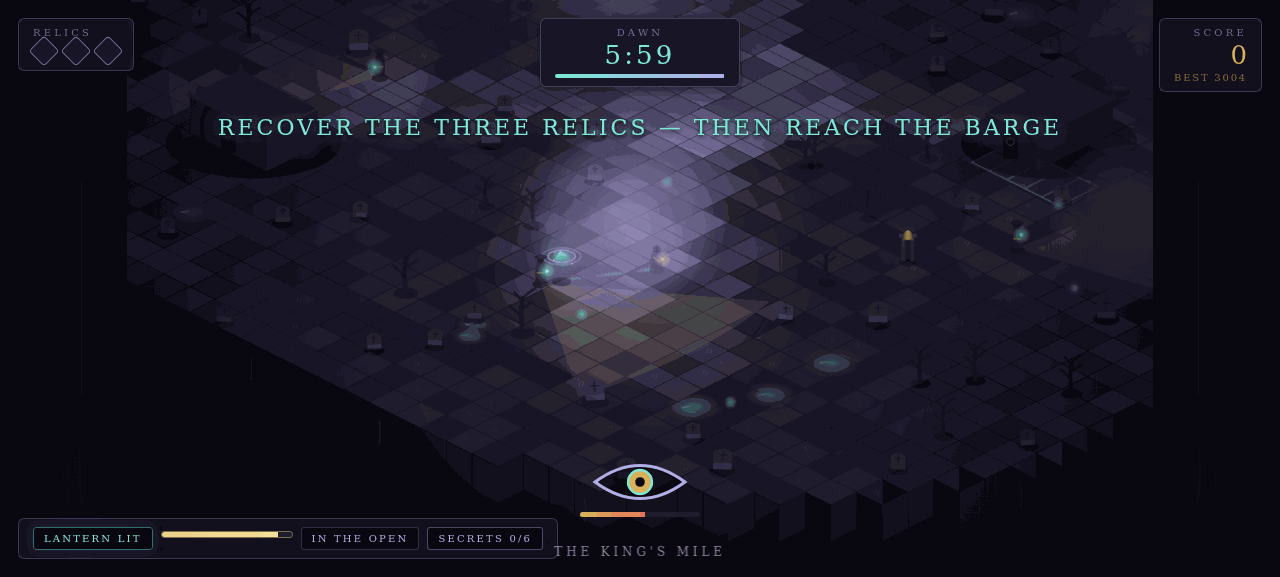
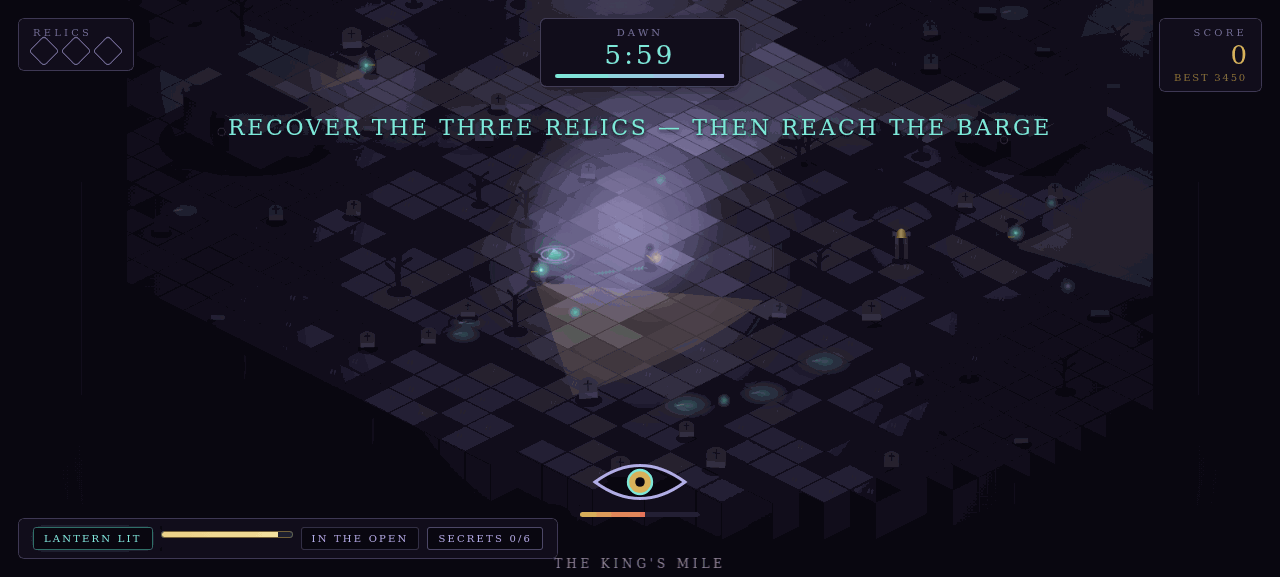
Phase 3 polish: fix toast/title overflow, hide HUD behind screens, accurate README
- HUD no longer renders behind title/pause/victory/defeat screens
- Toast wraps to viewport-safe width (no nowrap overflow), fluid title metrics
- Zone label lifted clear of HUD chips; HUD status wraps within 62vw
- Remove inert spectral bridge (non-functional mechanic) from code and README claims
- README: correct layout description, document CDP verification harnesses
- Re-capture screenshots from the fixed build

diff --git a/game/src/styles.css b/game/src/styles.css
@@ -44,7 +44,7 @@ html, body {
 #hud-relics { top: 18px; left: 18px; }
 #hud-dawn { top: 18px; left: 50%; transform: translateX(-50%); text-align: center; min-width: 170px; }
 #hud-score { top: 18px; right: 18px; text-align: right; }
-#hud-status { bottom: 18px; left: 18px; display: flex; gap: 8px; }
+#hud-status { bottom: 18px; left: 18px; display: flex; gap: 8px; flex-wrap: wrap; max-width: 62vw; }
 #dawn-time { font-size: 26px; color: var(--teal); letter-spacing: 0.12em; font-variant-numeric: tabular-nums; }
 #dawn-time.urgent { color: #e88a7d; animation: pulse 1s infinite; }
 @keyframes pulse { 50% { opacity: 0.55; } }
@@ -74,9 +74,10 @@ html, body {
 
 #toast {
   position: absolute; top: 22%; left: 50%; transform: translate(-50%, -50%);
-  font-size: 22px; letter-spacing: 0.14em; color: var(--teal);
+  font-size: clamp(15px, 2vw, 22px); letter-spacing: 0.12em; color: var(--teal);
   text-shadow: 0 0 18px rgba(125,232,216,0.6), 0 2px 4px #000;
-  animation: toastIn 0.4s ease-out; text-align: center; white-space: nowrap;
+  animation: toastIn 0.4s ease-out; text-align: center;
+  max-width: min(88vw, 880px); width: max-content; padding: 0 12px; box-sizing: border-box;
 }
 @keyframes toastIn { from { opacity: 0; transform: translate(-50%, -30%); } to { opacity: 1; transform: translate(-50%, -50%); } }
 
@@ -94,14 +95,14 @@ html, body {
   z-index: 5; text-align: center;
 }
 .title-inner, .panel-inner { max-width: 720px; padding: 24px 40px; }
-.title-kicker { font-size: 11px; letter-spacing: 0.42em; color: var(--teal-dim); margin-bottom: 14px; }
+.title-kicker { font-size: clamp(9px, 0.9vw, 11px); letter-spacing: clamp(0.2em, 0.5vw, 0.42em); color: var(--teal-dim); margin-bottom: 14px; }
 .title-logo {
-  font-size: 84px; margin: 0; letter-spacing: 0.14em; font-weight: 400; color: #efe9ff;
+  font-size: clamp(46px, 8.2vw, 84px); margin: 0; letter-spacing: 0.14em; font-weight: 400; color: #efe9ff;
   text-shadow: 0 0 40px rgba(184,167,232,0.5), 0 0 90px rgba(125,232,216,0.25), 0 4px 0 #241d36;
 }
-.title-sub { font-size: 17px; letter-spacing: 0.9em; color: var(--brass); margin: 6px 0 22px 0.45em; }
-.title-story { font-size: 14.5px; line-height: 1.65; color: #b9b1d6; max-width: 560px; margin: 0 auto 20px; font-style: italic; }
-.title-controls { display: flex; flex-wrap: wrap; gap: 8px 18px; justify-content: center; margin-bottom: 26px; font-size: 12.5px; color: #8f86b5; }
+.title-sub { font-size: clamp(12px, 1.5vw, 17px); letter-spacing: clamp(0.35em, 1.1vw, 0.9em); color: var(--brass); margin: 6px 0 22px 0.45em; }
+.title-story { font-size: clamp(12.5px, 1.25vw, 14.5px); line-height: 1.65; color: #b9b1d6; max-width: 560px; margin: 0 auto 20px; font-style: italic; }
+.title-controls { display: flex; flex-wrap: wrap; gap: 8px 18px; justify-content: center; margin-bottom: 26px; font-size: clamp(11px, 1.05vw, 12.5px); color: #8f86b5; }
 .title-controls b { color: var(--violet); font-family: 'Courier New', monospace; }
 .title-best { font-size: 12px; letter-spacing: 0.3em; color: var(--brass); margin-top: 18px; min-height: 16px; }
 .title-foot { margin-top: 14px; font-size: 10.5px; letter-spacing: 0.2em; color: #57506f; }
@@ -137,6 +138,6 @@ html, body {
 #lantern-energy-fill.low { background: linear-gradient(90deg,#e86a5a,#d8b25a); }
 .status-chip.spent { color: #e86a5a; border-color: rgba(232,106,90,0.5); }
 .secret-chip { color: #b8a7e8; border-color: rgba(184,167,232,0.4); }
-#zone-label { position: absolute; bottom: 18px; left: 50%; transform: translateX(-50%); font-size: 12px; letter-spacing: 0.32em; color: rgba(232,227,240,0.6); text-shadow: 0 2px 8px rgba(0,0,0,0.8); pointer-events: none; }
+#zone-label { position: absolute; bottom: 6px; left: 50%; transform: translateX(-50%); font-size: 12px; letter-spacing: 0.32em; color: rgba(232,227,240,0.6); text-shadow: 0 2px 8px rgba(0,0,0,0.8); pointer-events: none; }
 .zone-fade { animation: zoneFade 3.2s ease forwards; }
 @keyframes zoneFade { 0% { opacity: 0; transform: translateX(-50%) translateY(6px); } 18% { opacity: 1; transform: translateX(-50%) translateY(0); } 78% { opacity: 1; } 100% { opacity: 0.35; } }

diff --git a/game/src/render.js b/game/src/render.js
@@ -1,5 +1,5 @@
 // Mirrorgrave — isometric renderer. Original vector art, violet/teal/brass palette.
-import { SIZE, TILE, inFog, bridgePhase } from './world.js';
+import { SIZE, TILE, inFog } from './world.js';
 
 export const TILE_W = 64, TILE_H = 32;
 const isoX = (x, y) => (x - y) * (TILE_W / 2);
@@ -51,8 +51,6 @@ export function render(ctx, world, state, time) {
   // Puddles (under entities)
   for (const p of world.puddles) drawPuddle(ctx, p, time);
 
-  // Spectral bridge over the Sunken Court — phases in and out
-  drawBridge(ctx, world, time);
   // Epitaphs (always faintly visible) and lantern-revealed echoes
   for (const ep of world.epitaphs) drawEpitaph(ctx, ep, time);
   if (state.lanternOn) for (const ec of world.echoes) if (!ec.taken) drawEcho(ctx, ec, time);
@@ -477,46 +475,6 @@ function drawRelic(ctx, r, state, time) {
     ctx.stroke();
     ctx.restore();
   }
-}
-
-function drawBridge(ctx, world, time) {
-  const b = world.bridge;
-  const solid = bridgePhase(world) < 0.52;
-  const fade = solid ? 1 : Math.max(0, 1 - (bridgePhase(world) - 0.52) * 4.5);
-  if (fade <= 0.02 && bridgePhase(world) > 0.74) {
-    // Fully phased out — draw only rune anchors
-  }
-  // Rune anchor posts at both ends
-  for (const [ax, ay] of [[b.x - 0.4, b.y + b.h / 2], [b.x + b.w + 0.4, b.y + b.h / 2]]) {
-    const s = worldToScreen(ax, ay);
-    ctx.fillStyle = '#3d3550';
-    ctx.fillRect(s.x - 3, s.y - 22, 6, 22);
-    ctx.fillStyle = '#7de8d8';
-    ctx.globalAlpha = 0.5 + 0.5 * Math.sin(time * 2.2 + ax);
-    ctx.beginPath(); ctx.arc(s.x, s.y - 24, 2.4, 0, Math.PI * 2); ctx.fill();
-    ctx.globalAlpha = 1;
-  }
-  if (fade <= 0.02) return;
-  // Planks — translucent spectral timber
-  const s0 = worldToScreen(b.x, b.y), s1 = worldToScreen(b.x + b.w, b.y), s2 = worldToScreen(b.x + b.w, b.y + b.h), s3 = worldToScreen(b.x, b.y + b.h);
-  ctx.save();
-  ctx.globalAlpha = 0.35 + 0.45 * fade;
-  ctx.beginPath();
-  ctx.moveTo(s0.x, s0.y); ctx.lineTo(s1.x, s1.y); ctx.lineTo(s2.x, s2.y); ctx.lineTo(s3.x, s3.y);
-  ctx.closePath();
-  const g = ctx.createLinearGradient(s0.x, s0.y, s2.x, s2.y);
-  g.addColorStop(0, '#2e4a4a'); g.addColorStop(0.5, '#3f6b66'); g.addColorStop(1, '#2e4a4a');
-  ctx.fillStyle = g; ctx.fill();
-  ctx.strokeStyle = 'rgba(125,232,216,0.75)'; ctx.lineWidth = 1.6; ctx.stroke();
-  // Plank seams
-  ctx.globalAlpha = 0.5 * fade;
-  for (let i = 1; i < 5; i++) {
-    const t = i / 5;
-    const ax = s0.x + (s1.x - s0.x) * t, ay = s0.y + (s1.y - s0.y) * t;
-    const bx = s3.x + (s2.x - s3.x) * t, by = s3.y + (s2.y - s3.y) * t;
-    ctx.beginPath(); ctx.moveTo(ax, ay); ctx.lineTo(bx, by); ctx.stroke();
-  }
-  ctx.restore();
 }
 
 function drawEcho(ctx, ec, time) {

diff --git a/game/src/world.js b/game/src/world.js
@@ -40,8 +40,6 @@ const EPITAPHS = [
   { x: 33.0, y: 15.0, text: 'THE WATCH DOES NOT SLEEP. THE WATCH ONLY WAITS.' },
   { x: 12.5, y: 33.0, text: 'COUNT TWO BELLS, AND THE PALE WARD WILL LOOSEN.' },
 ];
-// The spectral bridge across the Sunken Court — phases in and out on a slow cycle
-export const BRIDGE = { x: 30.4, y: 19.4, w: 3.4, h: 1.5, period: 7.0 };
 const BELL_SPOTS = [
   { x: 22.5, y: 14.5 },
   { x: 13.5, y: 25.5 },
@@ -164,7 +162,6 @@ export function buildWorld() {
     relics: RELIC_SPOTS.map((r, i) => ({ ...r, id: i, taken: false, revealed: false })),
     echoes: ECHO_SPOTS.map((e, i) => ({ ...e, id: i, taken: false })),
     epitaphs: EPITAPHS.map((e, i) => ({ ...e, id: i, read: false })),
-    bridge: { ...BRIDGE },
     bells: BELL_SPOTS.map((b, i) => ({ ...b, id: i, cooldown: 0, ringT: -10 })),
     guards: GUARD_PATROLS.map((wp, i) => ({
       id: i, waypoints: wp.map(p => ({ ...p })),
@@ -217,19 +214,6 @@ export function resolveCollision(world, x, y, radius) {
         x += ddx * push; y += ddy * push;
       }
     }
-    // spectral bridge — solid only while phased in
-    if (bridgeSolid(world)) {
-      const o = world.bridge;
-      const nx = Math.max(o.x, Math.min(x, o.x + o.w));
-      const ny = Math.max(o.y, Math.min(y, o.y + o.h));
-      const ddx = x - nx, ddy = y - ny;
-      const d2 = ddx * ddx + ddy * ddy;
-      if (d2 < radius * radius) {
-        const d = Math.sqrt(d2) || 0.001;
-        const push = (radius - d) / d;
-        x += ddx * push; y += ddy * push;
-      }
-    }
     // graves as small cylinders
     for (const g of world.graves) {
       const ddx = x - g.x, ddy = y - g.y;
@@ -262,15 +246,6 @@ export function resolveCollision(world, x, y, radius) {
   return { x, y };
 }
 
-// Spectral bridge state: solid (walkable, phased-in) for half its period
-export function bridgeSolid(world, timeSec) {
-  const t = (timeSec ?? world.timeSec ?? 0) % world.bridge.period;
-  return t < world.bridge.period * 0.52;
-}
-export function bridgePhase(world, timeSec) {
-  const t = (timeSec ?? world.timeSec ?? 0) % world.bridge.period;
-  return t / world.bridge.period;
-}
 
 // Named districts — environmental storytelling + HUD zone label
 export function zoneAt(x, y) {

diff --git a/game/src/main.js b/game/src/main.js
@@ -57,7 +57,8 @@ function showScreen(which) {
   screens.title.classList.toggle('hidden', which !== 'title');
   screens.pause.classList.toggle('hidden', which !== 'pause');
   screens.end.classList.toggle('hidden', which !== 'end');
-  hud.classList.toggle('hidden', which === 'title');
+  // HUD belongs to gameplay only: hide it behind every screen (title, pause, end)
+  hud.classList.toggle('hidden', which !== null && which !== undefined);
 }
 
 function toast(msg, seconds = 2.6) {

diff --git a/README.md b/README.md
@@ -45,6 +45,13 @@ island; each is worth score. The HUD tracks them.
 
 **Controls.** `WASD`/arrows move · `Shift` sprint · `Space` hide · `E` lantern / use · `R` restart · `Esc` pause.
 
+## Development
+
+`qa-enhanced.mjs`, `verify-phase3.mjs`, `verify-persistence.mjs` and `shots.mjs` are CDP (Chrome
+DevTools Protocol) verification harnesses used to test the game in headless Chromium and capture the
+screenshots; `serve.ts` is the local static server for `http://localhost:8080`. None of them are needed
+to play.
+
 ## Screenshots
 
 `screenshots/1-title.png` (title) · `screenshots/2-play.png` (in-game, HUD, lantern lit) · `screenshots/3-victory.png` (results)
@@ -52,7 +59,7 @@ island; each is worth score. The HUD tracks them.
 ## Layout
 
 `game/index.html` — page shell + HUD + screens · `game/src/world.js` — the island, zones, relic
-puzzles, bridge, secrets, collision · `game/src/guards.js` — warden AI (patrol/hear/search/shout) ·
+puzzles, secrets, collision · `game/src/guards.js` — warden AI (patrol/hear/search/shout) ·
 `game/src/main.js` — loop, state, lantern energy, scoring · `game/src/render.js` — isometric renderer
 (vector art, lighting, fog, puddles) · `game/src/audio.js` — generated WebAudio sound ·
 `game/src/styles.css` — UI · `vendor/makefun-game.ts` — the bounty kit's library, unmodified.
